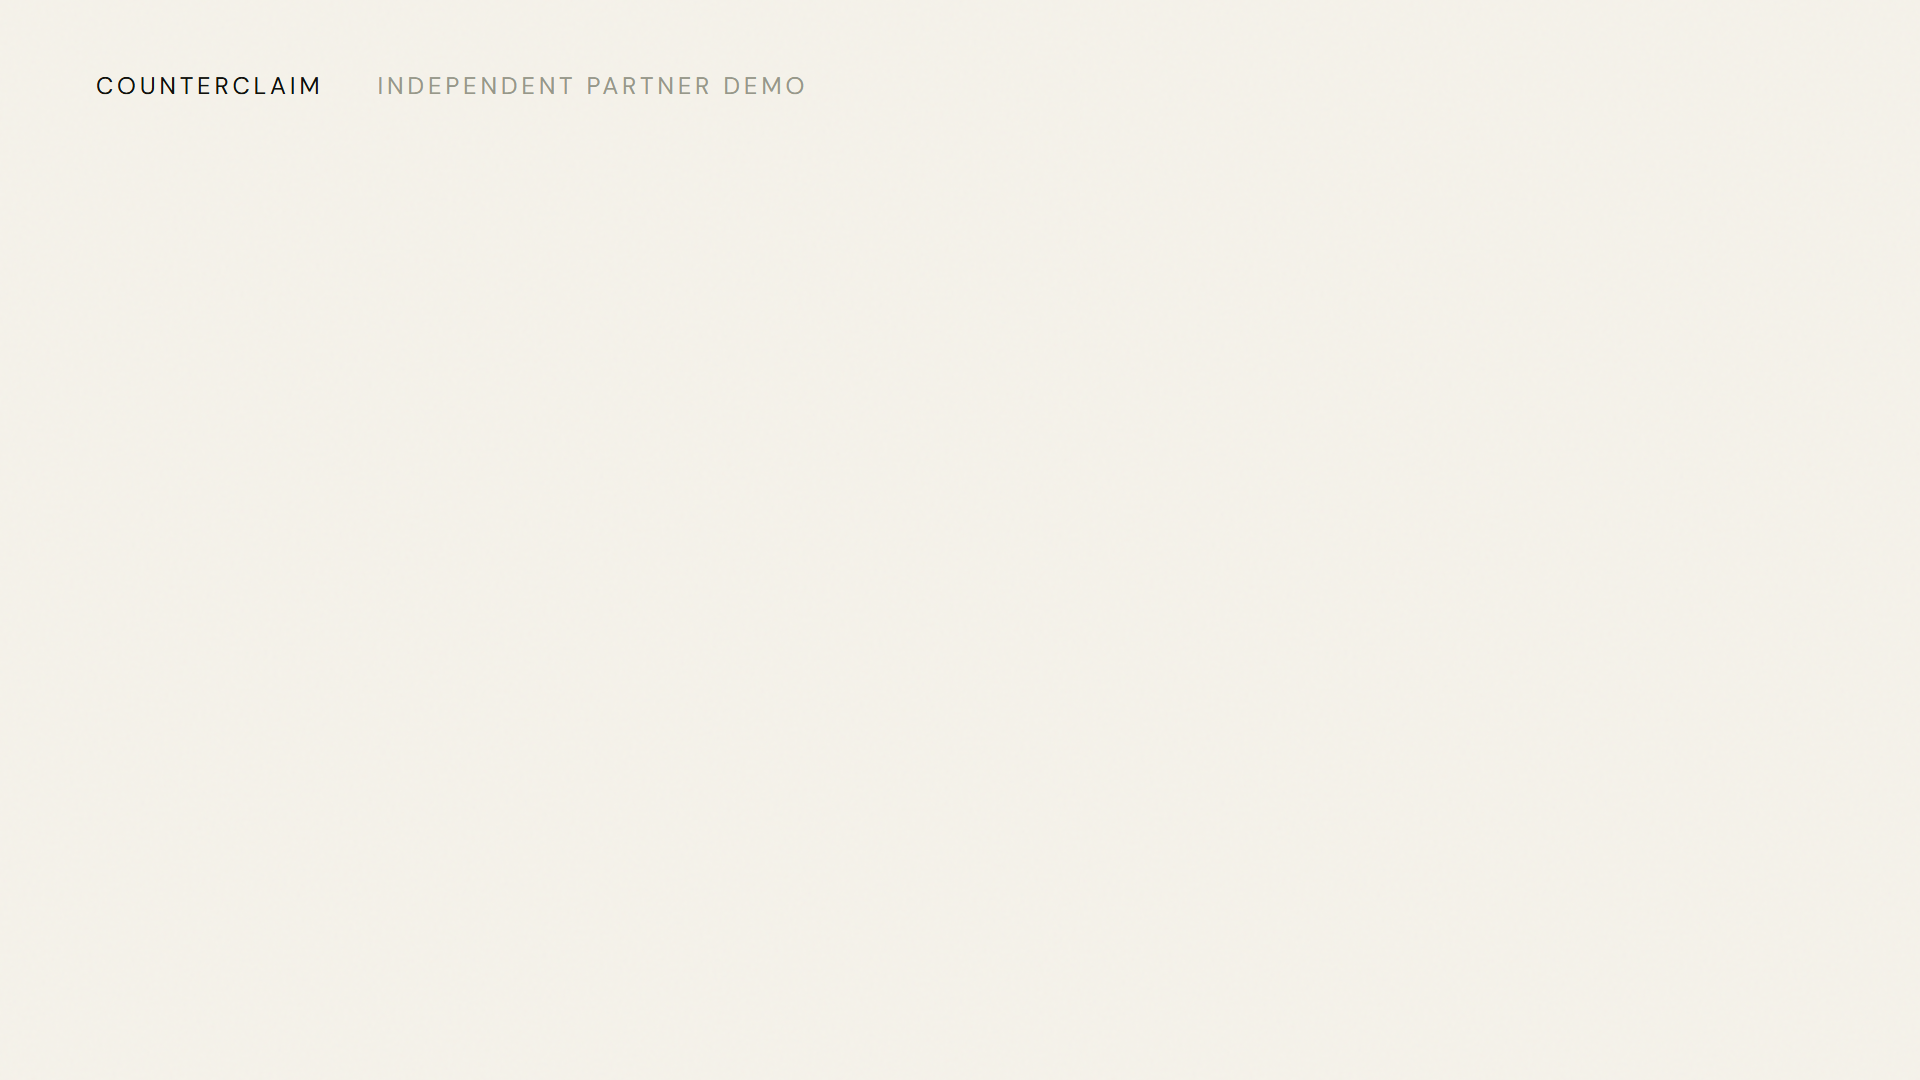
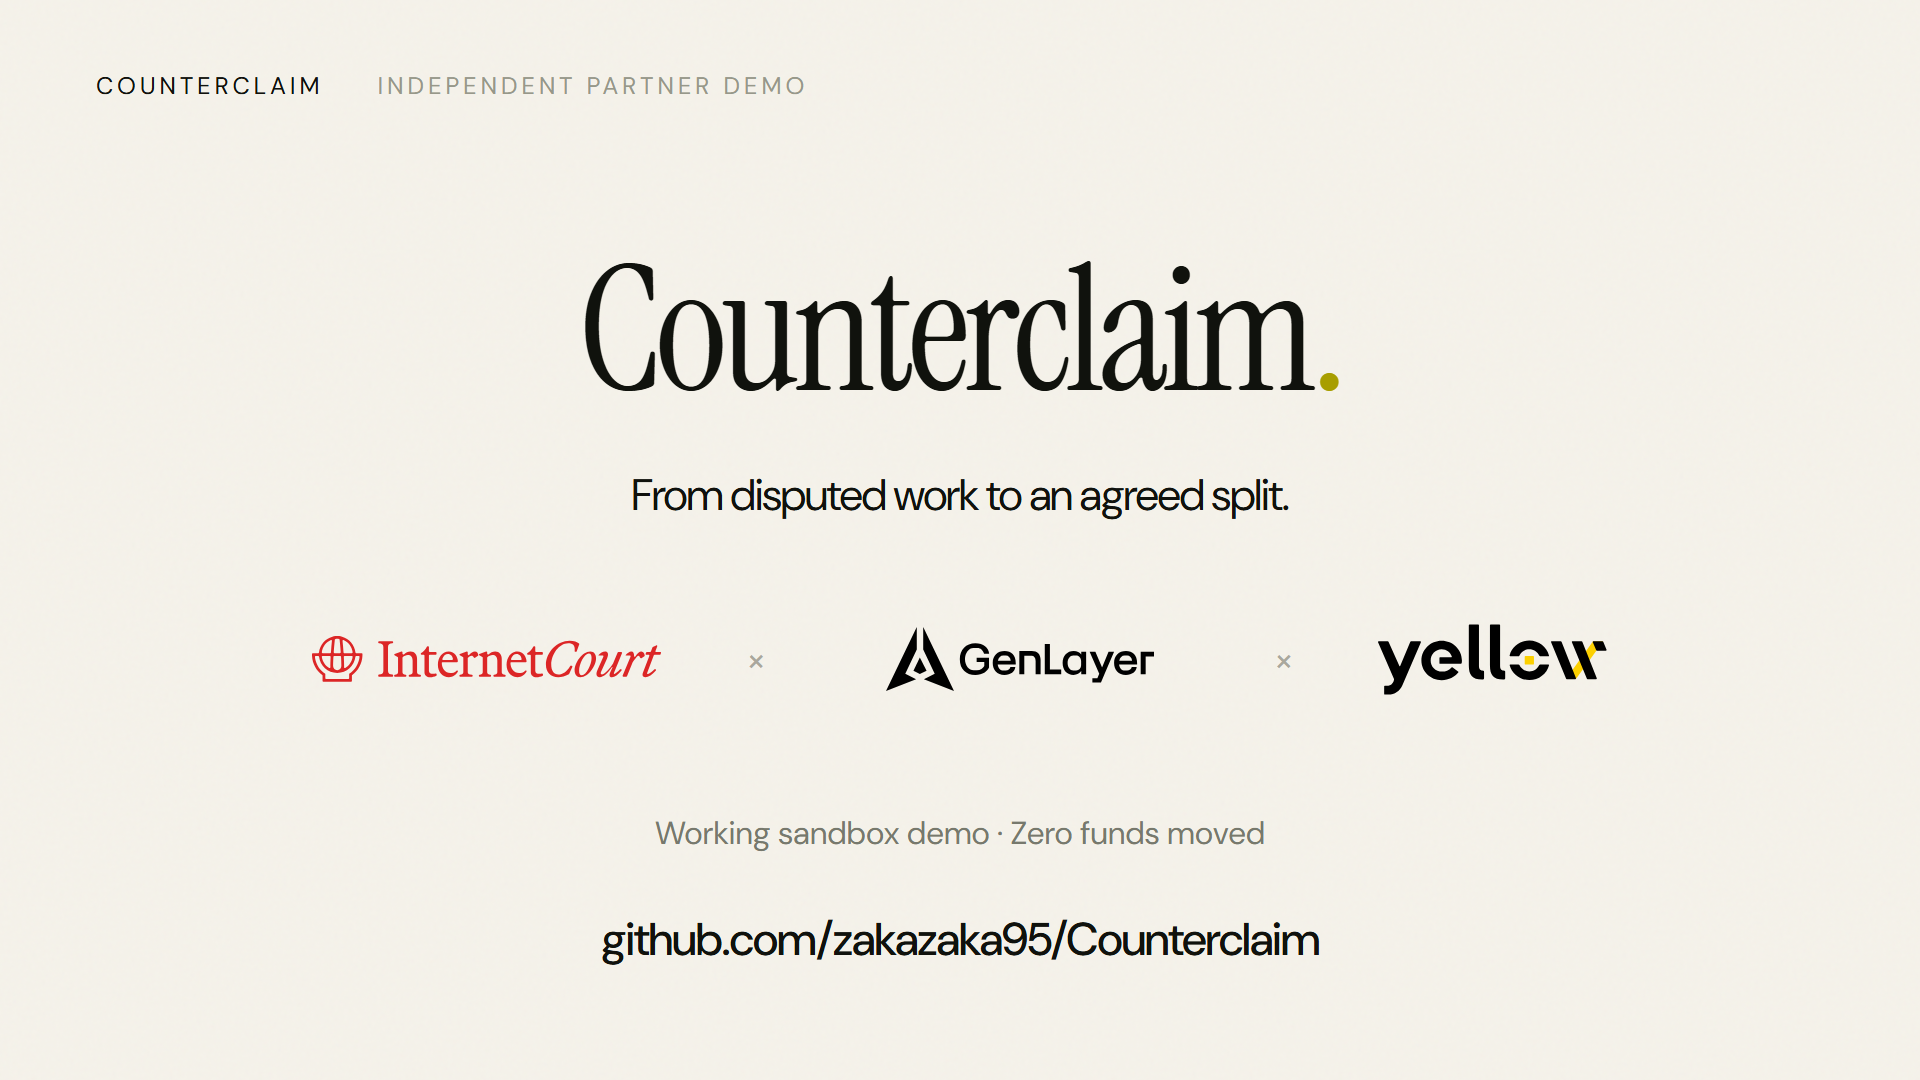
Fix static film poster while preserving verified video master

diff --git a/media/src/Film.tsx b/media/src/Film.tsx
@@ -1,5 +1,5 @@
 import React from 'react';
-import { AbsoluteFill, Audio, Easing, Freeze, Img, Sequence, interpolate, staticFile, useCurrentFrame, useVideoConfig } from 'remotion';
+import { AbsoluteFill, Audio, Easing, Img, Sequence, interpolate, staticFile, useCurrentFrame, useVideoConfig } from 'remotion';
 import rawEvidence from '../public/film-evidence.json';
 
 type Capture = {src:string;width:number;height:number;focus?:{cx:number;cy:number;zoom:number}};
@@ -157,8 +157,8 @@ const RecordProof:React.FC=()=>{
  </AbsoluteFill>;
 };
 
-const Closing:React.FC=()=>{
- const f=useCurrentFrame();const a=ramp(f,0,24);const b=ramp(f,18,24);const c=ramp(f,28,25);
+const Closing:React.FC<{still?:boolean}>=({still=false})=>{
+ const currentFrame=useCurrentFrame();const f=still?80:currentFrame;const a=ramp(f,0,24);const b=ramp(f,18,24);const c=ramp(f,28,25);
  return <AbsoluteFill style={{background:PAPER,color:INK}}><StageTexture/><Chapter label="Independent partner demo"/>
   <div style={{position:'absolute',left:0,top:218,width:'100%',textAlign:'center',opacity:a,transform:`translateY(${(1-a)*28}px)`}}><div className="serif" style={{fontSize:174,letterSpacing:'-.035em'}}>Counterclaim<span style={{color:'#a89e00'}}>.</span></div><div style={{fontSize:44,letterSpacing:'-.025em',marginTop:22}}>From disputed work to an agreed split.</div></div>
   <div style={{position:'absolute',left:0,top:623,width:'100%',opacity:b,transform:`translateY(${(1-b)*16}px)`}}><Logos/></div>
@@ -170,7 +170,7 @@ const Closing:React.FC=()=>{
 export const CounterclaimFilm:React.FC<{music?:boolean}>=({music=true})=>{
  const {fps}=useVideoConfig();
  return <AbsoluteFill className="film" style={{background:INK}}><style>{globalCss}</style>
-  <Sequence from={0} durationInFrames={4*fps} name="01 — Work delivered, terms disputed"><Opening/></Sequence>
+  <Sequence from={0} durationInFrames={4*fps} name="01 — Signed terms, delivery disputed"><Opening/></Sequence>
   <Sequence from={4*fps} durationInFrames={6.2*fps} name="02 — Actual frozen agreement"><Agreement/></Sequence>
   <Sequence from={10.2*fps} durationInFrames={6*fps} name="03 — Actual delivery evidence"><Evidence/></Sequence>
   <Sequence from={16.2*fps} durationInFrames={15*fps} name="04 — Verdict carried into Yellow"><VerdictBridge/></Sequence>
@@ -181,4 +181,4 @@ export const CounterclaimFilm:React.FC<{music?:boolean}>=({music=true})=>{
  </AbsoluteFill>;
 };
 
-export const CounterclaimPoster:React.FC=()=> <AbsoluteFill className="film" style={{background:PAPER}}><style>{globalCss}</style><Freeze frame={80}><Closing/></Freeze></AbsoluteFill>;
+export const CounterclaimPoster:React.FC=()=> <AbsoluteFill className="film" style={{background:PAPER}}><style>{globalCss}</style><Closing still/></AbsoluteFill>;

diff --git a/media/REVIEW.md b/media/REVIEW.md
@@ -45,6 +45,20 @@ Final master SHA-256:
 SFX-only SHA-256:
[1 lines of base64/hex data omitted]
 
+## Static cover correction
+
+Final delivery inspection caught a separate cover-export bug: `Still` composition
+timing left the animated closing content transparent despite a surrounding frame
+freeze. The poster now renders `Closing` with an explicit static frame override
+(`still=true`, frame 80), while the movie uses the original animated default.
+The newly rendered PNG was opened and checked directly: title, tagline, all three
+marks, zero-funds note and repository CTA are visible. Only the poster was
+rerendered; both delivered MP4 hashes above remain unchanged. The first sequence's
+nonvisible label was also corrected to “Signed terms, delivery disputed.”
+
+Corrected poster SHA-256:
[1 lines of base64/hex data omitted]
+
 ## Factual boundary
 
 75/25 are nonmonetary demo credits. The actual Yellow allocations array is empty,

diff --git a/media/README.md b/media/README.md
@@ -42,6 +42,8 @@ Rendering first revalidates the archived evidence and capture hashes. An absent
 real ruling, mismatched receipt, unclosed session or changed screenshot prevents a
 final export. It does not create any network transactions. Review stills in
 `out/qa/` before encoding; use `npm run render -- --skip-stills` once those match.
+To regenerate only the static cover without touching either movie, use
+`npm run render -- --poster-only`.
 
 ## Recorded result and limits
 
